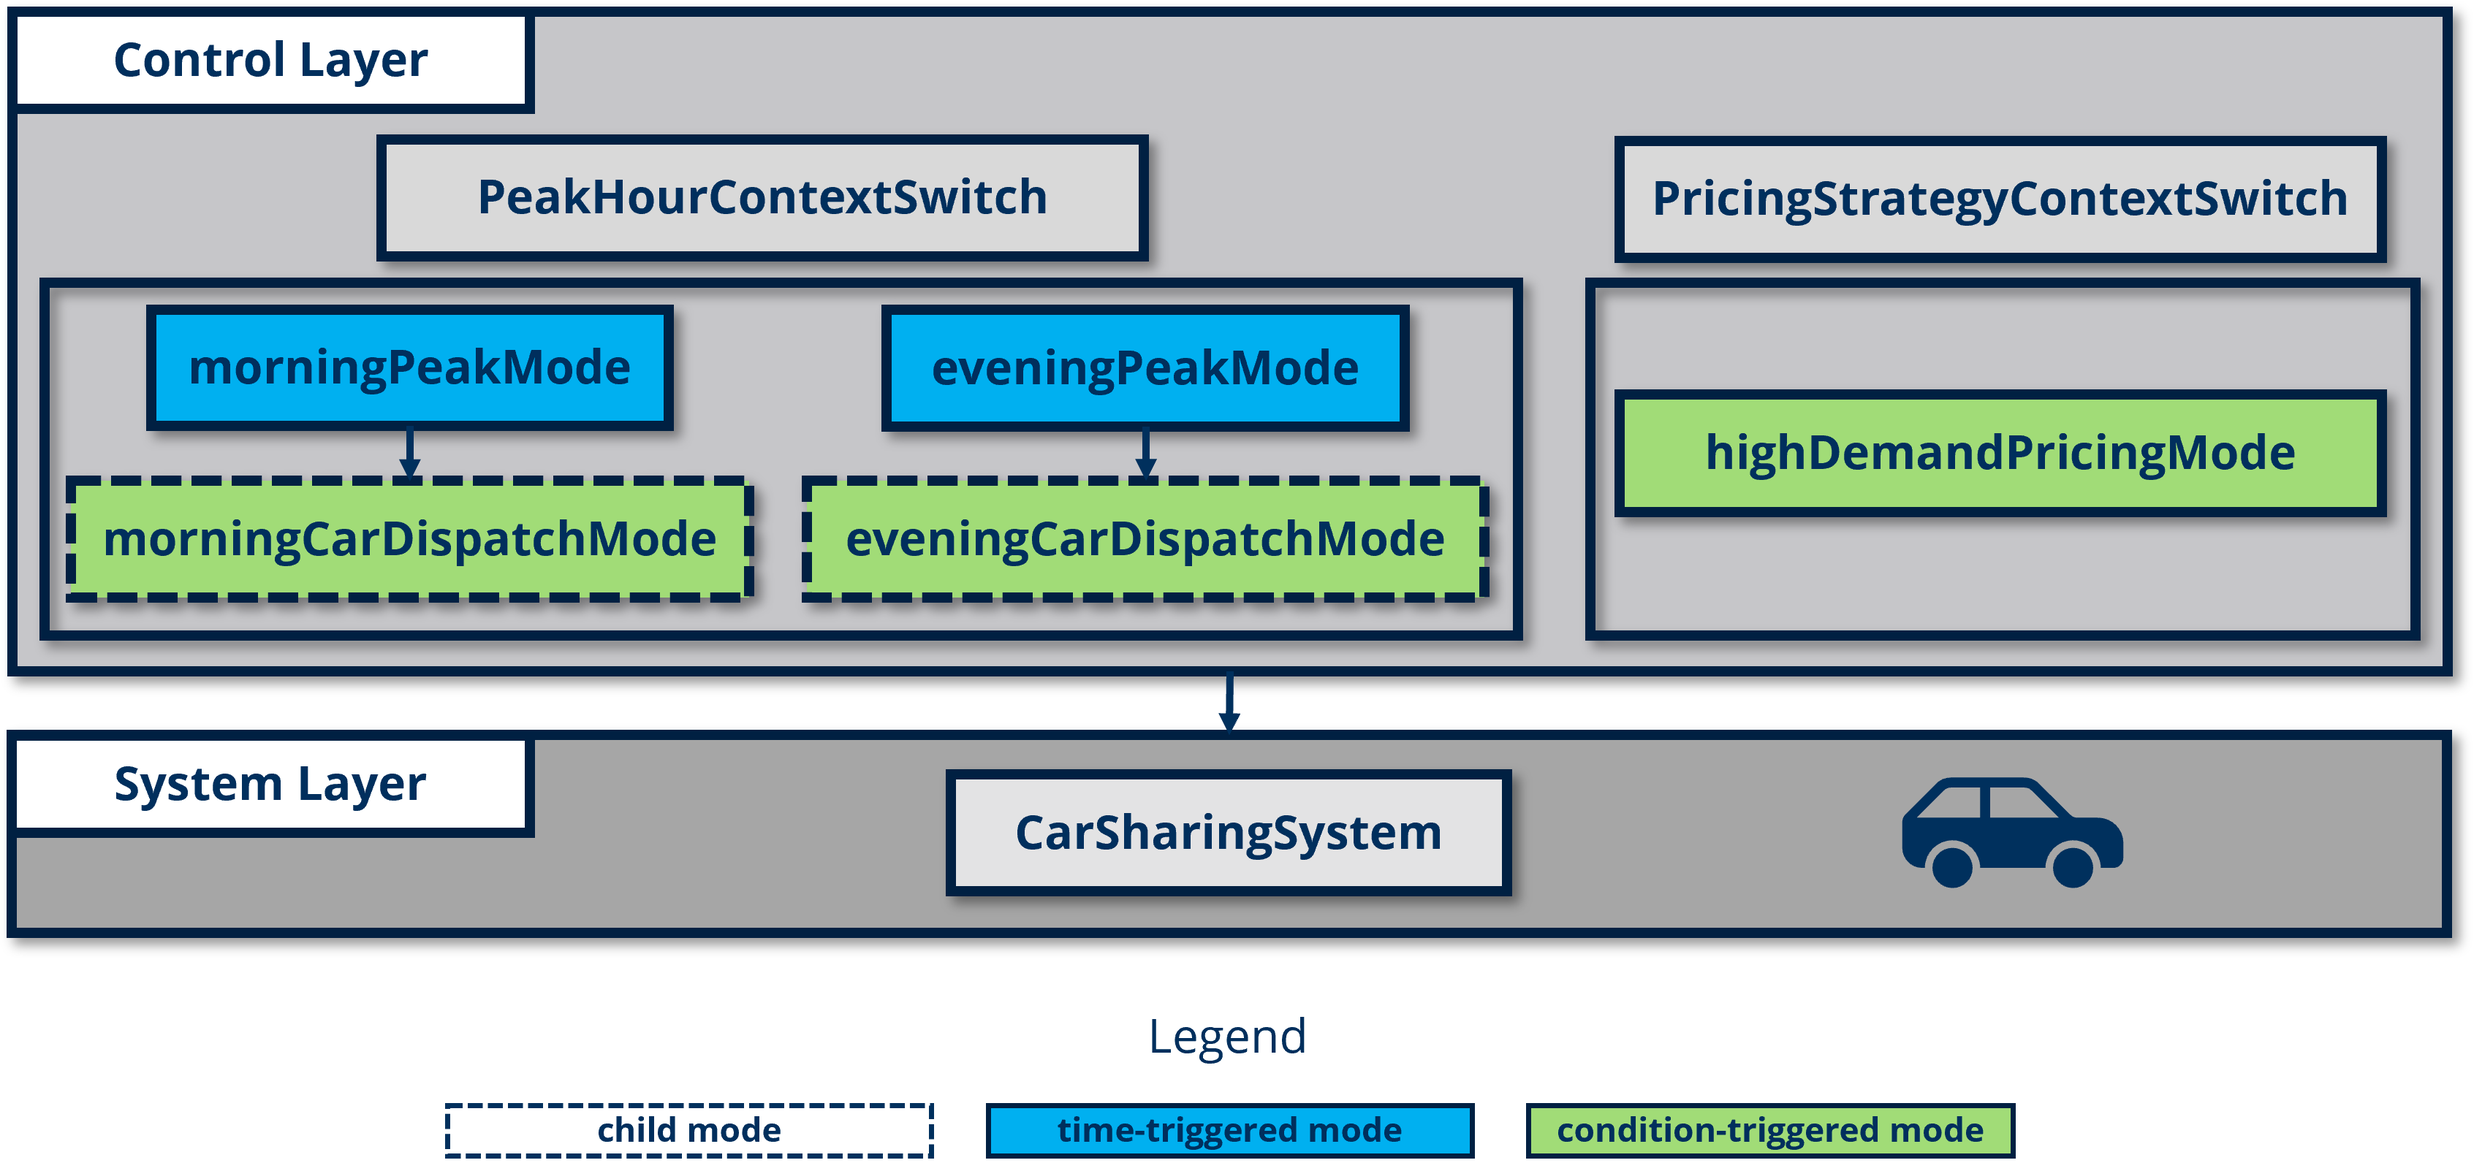
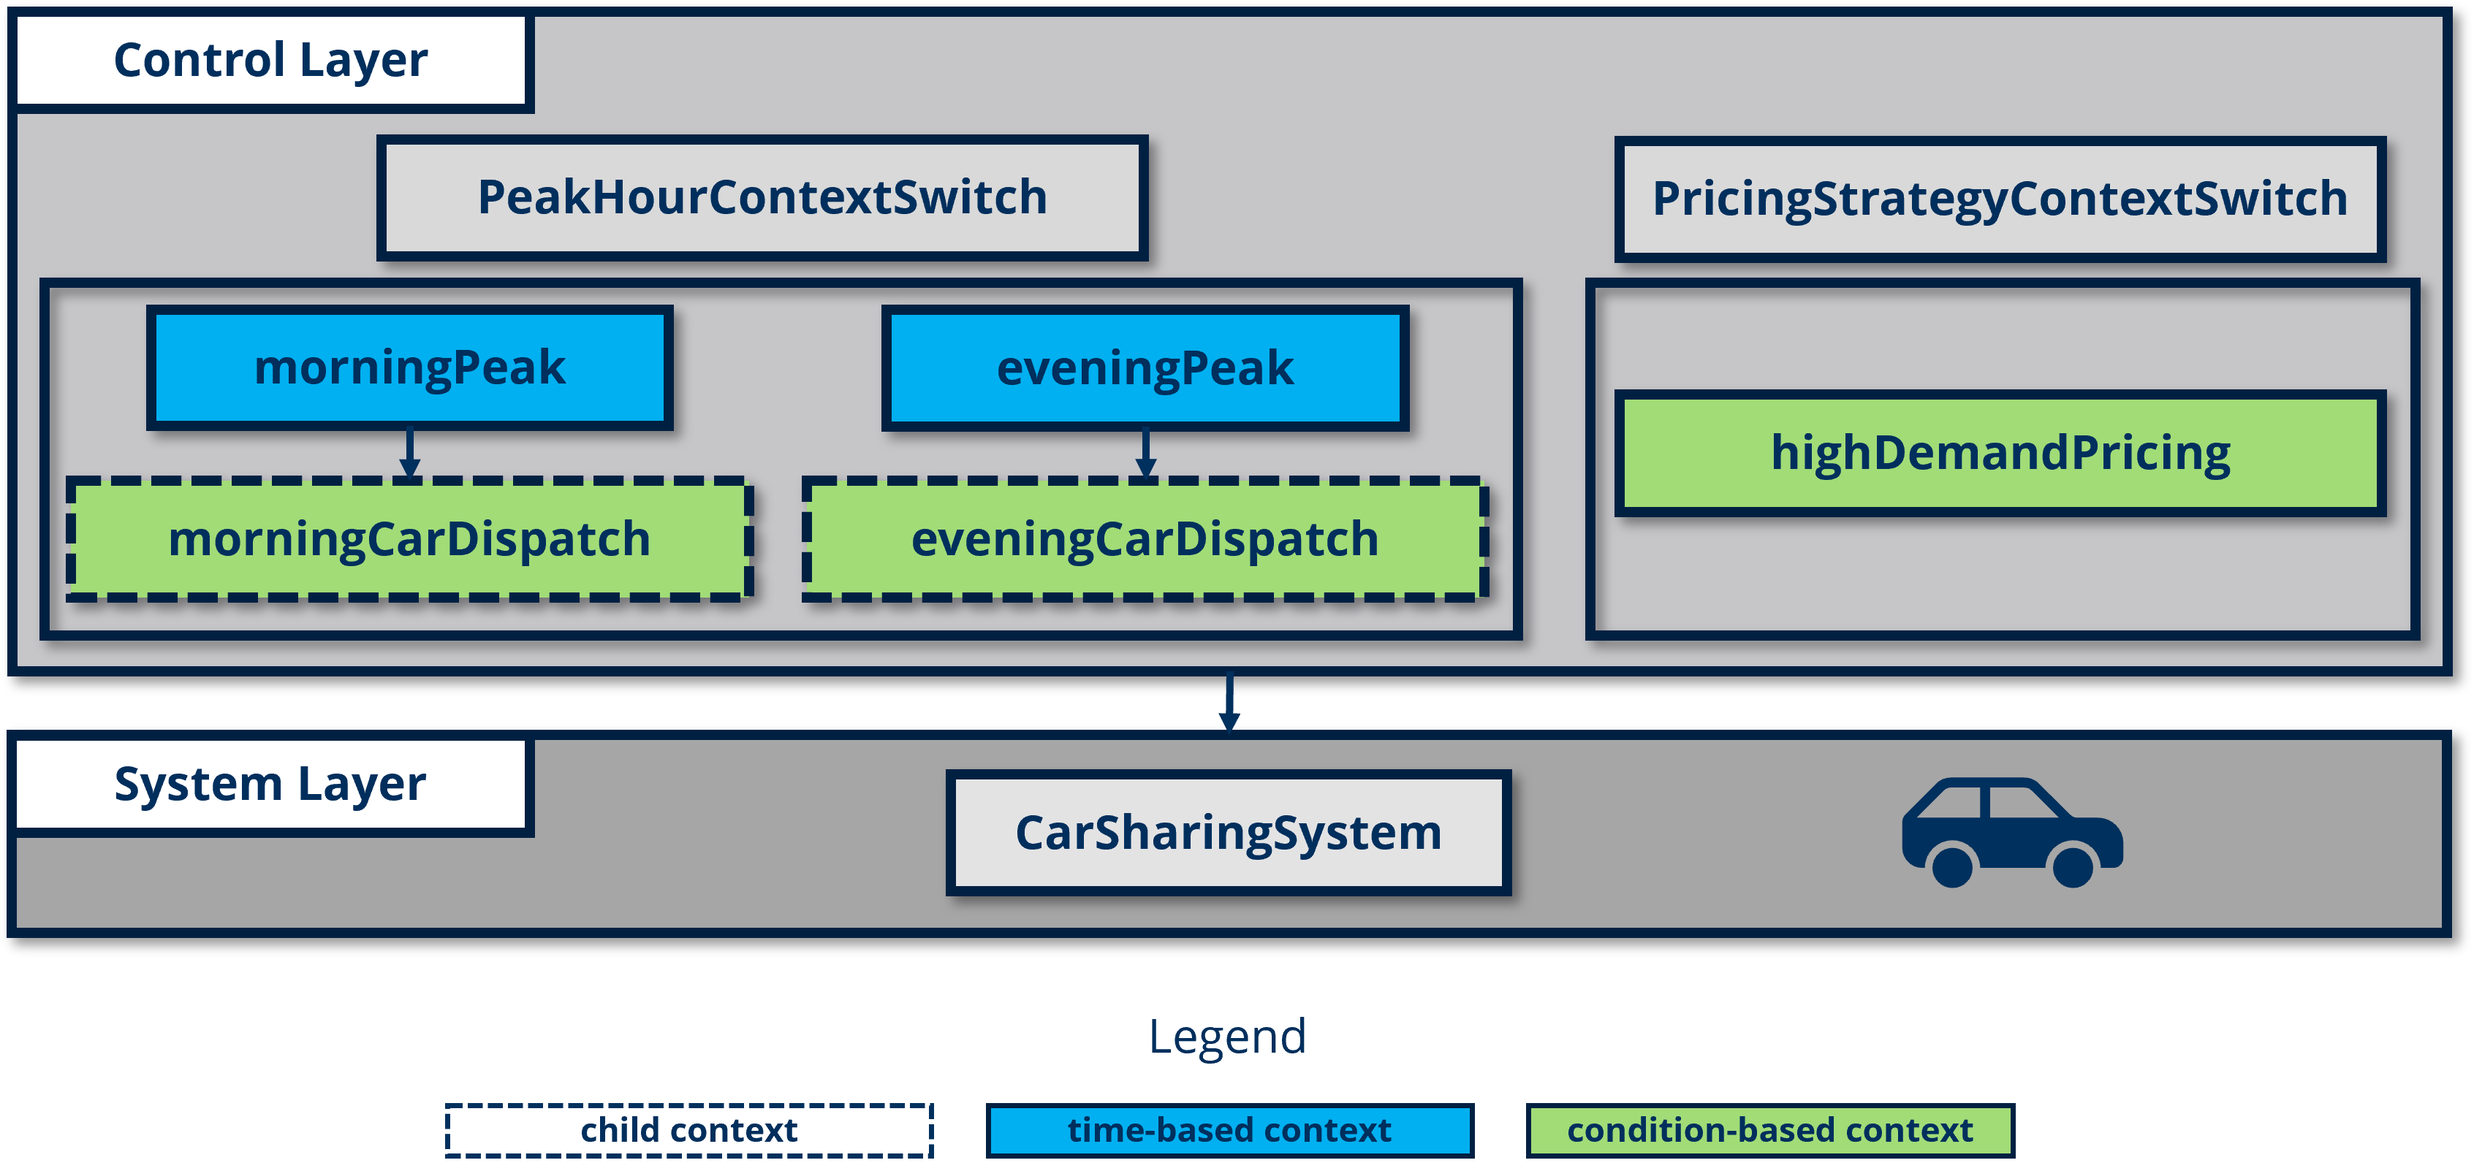
docs update

diff --git a/docs/docs/CaseStudies/ElectricGrid.md b/docs/docs/CaseStudies/ElectricGrid.md
@@ -3,22 +3,25 @@ layout: default
 title: ElectricGrid
 parent: Case Studies
 nav_order: 2
-
 ---
 
 # ElectricGrid
 
-The [TransiEnt]([GitHub - TransiEnt-official/transient-lib: official and current version of TransiEnt library](https://github.com/TransiEnt-official/transient-lib)) library is an award-winning, open-source Modelica library designed for modeling complex energy systems. This case study demonstrates how **CFPNlib** can be easily integrated to add control logic on these sophisticated models. The model consists of 1992 equations and variables, reflecting its complexity and realism in simulating the operation of a real-world grid.
+The [TransiEnt]([GitHub - TransiEnt-official/transient-lib: official and current version of TransiEnt library](https://github.com/TransiEnt-official/transient-lib)) library is an award-winning, open-source Modelica library designed for modeling complex energy systems. 
 
-The model represent a simulation of an electrical grid system, incorporating renewable energy sources such as **solar panels** (bottom left), **wind plants** (bottom left), and a **Combined Heat and Power (CHP) plant** (left) into an **electric grid** (bottom right) that serves **user demands** (top right). The system is designed to balance power production from various sources with the dynamic energy demand from consumers. 
+This case study specifically showcases how to seamlessly integrate control logic into an existing energy system model. This model consists of 1992 variables and equations, reflecting its complexity and realism in simulating the operation of a real-world grid.
+
+This model represent a simulation of an electrical grid system, incorporating renewable energy sources such as **solar panels** (bottom left), **wind plants** (bottom left), and a **Combined Heat and Power (CHP) plant** (left) into an **electric grid** (bottom right) that serves **user demands** (top right). The system is designed to balance power production from various sources with the dynamic energy demand from consumers. 
 
 <img src="../../assets/ElectricGridCaseStudy.png"/>
 
-This case study specifically showcases how to seamlessly integrate control logic into an existing energy system model. As an example, we demonstrate the implementation of a **renewable energy priority mode**. This mode prioritizes renewable energy sources by shutting down the CHP plant and relying solely on solar and wind power when certain conditions are met. These conditions ensure that the grid operates efficiently and sustainably, leveraging renewable resources when available.
-
 ## Control Logic
 
-In this case study, a **renewable energy priority mode** was added to the original electrical grid model. This control logic ensures that the Combined Heat and Power (CHP) plant only operates when renewable energy sources (solar and wind) are insufficient to meet the energy demand. The logic is implemented as follows:
+In this case study, a `renewablePriority` context and a `windOnly` context were added to the original electrical grid model. Both contexts are condition-based and are weakly included.
+
+When the `renewablePriority` context is active, the Combined Heat and Power (CHP) plant stops operating. When the `windOnly` context is active, only wind energy is used. Since the `windOnly` context is weakly included within the `renewablePriority` context, the CHP plant also stops operating when the `windOnly` context is active.
+
+The logic is implemented as follows:
 
 ```modelica
 model ElectricGridCaseStudy
@@ -34,52 +37,34 @@ model ElectricGridCaseStudy
   Real currentPVPower;
   Real currentWindPower;
   Real input_value;
+  Real PV_output;
 
-  // Context-based event for Renewable Priority Mode
-  ContextWithConditionEvent renewablePriorityMode(
-    contextName = "RenewablePriorityMode",
-    startTokens = 0,
-    activationCondition = (currentDemand < 1e6 and currentPVPower > 500 and currentWindPower > 5e5));
+  // Context-based event for Renewable Priority Operation
+  ContextWithConditionEvent renewablePriority(
+    weakInclusionContext = "windOnly",
+    activationCondition = (currentDemand < 1e6 and currentPVPower > 500 and currentWindPower > 5e5) or windOnly.isActive);
+
+  // Context-based event for Wind Only Operation
+  ContextWithConditionEvent windOnly(
+    activationCondition = (currentDemand < 5e5));
     
 equation
 	(original code)
 	
-	// Equations to assign real values based on the current power consumption and production
+  // Equations to assign real values based on the current power consumption and production
   currentDemand = electricDemand.epp.P;
   currentPVPower = abs(pVPlant.epp.P);
   currentWindPower = abs(windProduction.epp.P);
 
-  // Conditional assignment based on the status of renewablePriorityMode
-  when renewablePriorityMode.isActive then
-    input_value = -min(electricDemandTable.y1 + 0.5e6, 1e6);
-  elsewhen not renewablePriorityMode.isActive then
-    input_value = 0;
-  end when;
+  // Conditional assignment based on the status of renewablePriority
+  CHP_input = if renewablePriority.isActive then 0 else -min(electricDemandTable.y1 + 0.5e6, 1e6);
+
+  // Conditional assignment based on the status of windOnly
+  PV_output = if windOnly.isActive then 0 else currentPVPower;
   
 end ElectricGridCaseStudy;
 ```
 
-This logic enables dynamic control of the CHP plant based on real-time conditions, improving the efficiency and sustainability of the grid by prioritizing renewable energy sources.
+As the results indicate, activating or deactivating the `windOnly` context also activates or deactivates the `renewablePriority` context.
 
-## Results
-
-### Original Operation of the CHP Plant
-
-Before integrating the control logic, the CHP plant operated continuously to meet the energy demand. This often led to unnecessary use of the CHP plant when renewable energy sources were available. Below is the diagram showing the original operation:
-
-<img src="../../assets/ElectricGrid_StandAlone_result.png"/>
-
-### Operation After Adding Control Logic
-Once the renewable energy priority mode is activated, the CHP plant is switched off when renewable energy production is sufficient to meet the demand. This is triggered by the conditions set in the control logic, such as low demand and high solar and wind energy production. Below is the diagram illustrating the operation with the new control logic in place:
-
-<img src="../../assets/ElectricGridCaseStudy_result.png"/>
-
-The results show that the CHP plant is only used when necessary, optimizing the grid's reliance on renewable energy and reducing the operational cost and environmental impact of fossil fuel-based energy generation.
-
-## Summary
-
-This case study demonstrates how to integrate a simple yet effective control logic into an existing energy system model using the **CFPNlib** library. By adding the renewable energy priority mode, we are able to ensure that the grid prioritizes renewable energy sources like solar and wind, and only uses the CHP plant when required by the energy demand.
-
-The integration of this control logic is straightforward, requiring minimal changes to the existing model. By using the intuitive **CFPNlib** components, we can easily define the conditions for switching the CHP plant on or off based on real-time energy generation and demand, without the need for complex modifications to the original system structure.
-
-The model with integrated control logic is more dynamic and adaptable to changing conditions in the energy environment, making it a valuable tool for optimizing real-world electrical grids. This approach highlights the flexibility and simplicity of using **CFPNlib** to add intelligent control to complex models, enabling more efficient and sustainable energy system management.
+<img src="../../assets/ElectricGridCaseStudyWeakInclusion.png"/>

diff --git a/docs/docs/CaseStudies/CarSharingSystem.md b/docs/docs/CaseStudies/CarSharingSystem.md
@@ -3,12 +3,11 @@ layout: default
 title: CarSharingSystem
 parent: Case Studies
 nav_order: 1
-
 ---
 
 # CarSharingSystem
 
-This case study demonstrates how **CFPNlib** can be used to implement modular and maintainable control logics within a car-sharing system. The model allows for dynamic control of car dispatch and pricing based on contextual factors, such as peak hours and user demand. The **CFPNlib** library is leveraged to introduce time-based and condition-based context events, improving flexibility without altering the core system model.
+This case study demonstrates how the **ContextVariabilityManager** can be used to implement modular and maintainable control logic within a car-sharing system. The model enables dynamic control of car dispatch and pricing based on contextual factors such as peak hours and user demand. The **ContextVariabilityManager** library is leveraged to introduce time-based and condition-based context events, enhancing flexibility without modifying the core system model.
 
 The structure of the case study is organized as follows:
 
@@ -25,14 +24,14 @@ CarSharingSystemCaseStudy
 - **PricingStrategyContextSwitch**: A control module to dynamically adjust pricing based on user demand.
 - **CarSharingSystemCaseStudy**: The integration model that connects the control modules with the base car-sharing system.
 
-As illustrated in the diagram below, this case study includes five modes: three condition-triggered modes and two time-triggered modes. Two of the condition-triggered modes are child modes of the time-triggered modes.
+As illustrated in the diagram below, this case study includes five contexts: three condition-based contexts and two time-based contexts. Two of the condition-based contexts are children contexts of the time-based contexts.
 
 <img src="../../assets/CarSharingSystem.png" style="zoom:25%;" />
 
 ## Modules
 ### Module 1: CarSharingSystem
 
-The **CarSharingSystem** model is based on an open-source car-sharing system repository, available [here](https://git-st.inf.tu-dresden.de/wang/pn4ecss). To integrate control logic, two input and output connectors are added for interfacing with the control layers, while other components remain unchanged.
+The **CarSharingSystem** model with 2824 variables and equations is based on an open-source car-sharing system repository, available [here](https://git-st.inf.tu-dresden.de/wang/pn4ecss). To integrate control logic, two input and output connectors are added for interfacing with the control layers, while other components remain unchanged.
 ```modelica
 // Added connectors
   output Real currentNumUsers(start = numUsers) "Current number of users in the system";
@@ -50,29 +49,26 @@ The **PeakHoursContextSwitch** module introduces both time-based and condition-b
 Here are the four context definitions:
 
 ```modelica
-ContextWithTimeEvent morningPeakMode(
-    startTokens = 0,
+ContextWithTimeEvent morningPeak(
     activationTimes = {morningPeakStartTime},
-    deactivationTimes = {morningPeakEndTime}
-  ) "Context for Morning Peak Mode";
+    deactivationTimes = {morningPeakEndTime})
+    "Context for Morning Peak";
 
-  ContextWithTimeEvent eveningPeakMode(
-    startTokens = 0,
+  ContextWithTimeEvent eveningPeak(
     activationTimes = {eveningPeakStartTime},
-    deactivationTimes = {eveningPeakEndTime}
-  ) "Context for Evening Peak Mode";
-  
-  ContextWithConditionEvent morningCarDispatchMode(
+    deactivationTimes = {eveningPeakEndTime})
+    "Context for Evening Peak";
+
+  ContextWithConditionEvent morningCarDispatch(
+    parentContext = "morningPeak",
+    activationCondition = (currentNumCars < 2) and morningPeak.isActive)
+    "Condition-based context to increase car availability during Morning Peak";
+
+  ContextWithConditionEvent eveningCarDispatch(
     startTokens = 0,
-    parentContext = "morningPeakMode",
-    activationCondition = (currentNumCars < 2)
-  ) "Condition-based context to increase car availability during Morning Peak Mode"; 
-  
-  ContextWithConditionEvent eveningCarDispatchMode(
-    startTokens = 0,
-    parentContext = "eveningPeakMode",
-    activationCondition = (currentNumCars < 1)
-  ) "Condition-based context to increase car availability Evening Peak Mode";
+    parentContext = "eveningPeak",
+    activationCondition = (currentNumCars < 1) and eveningPeak.isActive)
+    "Condition-based context to increase car availability during Evening Peak";
 ```
 
 In this setup, during peak hours, if `currentNumCars` falls below a certain level, cars are dispatched to meet demand. The remaining implementation is shown below:
@@ -90,12 +86,12 @@ model PeakHoursContextSwitch
   ...(shown above)  
   
   // Output variable to dynamically adjust based on active context
-  output Real carDispatch; 
+  output Real carDispatch;
 
 equation
-  // Adjust the car dispatch based on the active peak mode context
-  carDispatch = if morningCarDispatchMode.isActive then 2
-                  elseif eveningCarDispatchMode.isActive then 1
+  // Adjust the car dispatch based on the active peak context
+  carDispatch = if morningCarDispatch.isActive then 2
+                  elseif eveningCarDispatch.isActive then 1
                   else 0;
 
 end PeakHoursContextSwitch;
@@ -109,9 +105,7 @@ Example of the high-demand pricing context:
 
 ```modelica
 // Pricing Contexts
-  ContextWithConditionEvent highDemandPricingMode(
-    contextName = "HighDemandPricing",
-    startTokens = 0,
+  ContextWithConditionEvent highDemandPricing(
     activationCondition = currentNumUsers > highDemandThreshold
   ) "Context for High Demand Pricing";
 ```
@@ -141,11 +135,10 @@ model PricingStrategyContextSwitch
 
 equation
   // Adjust the price based on the active pricing context
-  currentPrice = if highDemandPricingMode.isActive then highDemandPrice 
+  currentPrice = if highDemandPricing.isActive then highDemandPrice 
                  else normalDemandPrice;
 
 end PricingStrategyContextSwitch;
-
 ```
 
 ### Module 4: CarSharingSystemCaseStudy
@@ -179,11 +172,4 @@ equation
   carSharingSystem.currentPrice = pricingStrategyContextSwitch.currentPrice;
 
 end CarSharingSystemCaseStudy;
-
 ```
-
-## Summary
-
-By using **CFPNlib**, developers can implement flexible, modular control logic without modifying the original model, ensuring a clear separation of concerns and simplifying maintenance. This approach also provides a comprehensive overview of how the model is controlled, benefiting both developers and users.
-
-The plotted results offer a clear visualization of which contexts are activated or deactivated, making it easy to compare different outputs and states. This streamlined analysis is especially valuable in large systems with thousands of variables—such as a car-sharing system with 2824 variables. The clarity of the results makes it much easier to interpret and optimize the system.

diff --git a/docs/docs/Overview/WhyThis.md b/docs/docs/Overview/WhyThis.md
@@ -24,18 +24,20 @@ In ContextVariabilityManager, the base component (illustrated below) encapsulate
 Below is a straightforward example of defining mutually exclusive features, **"brewing"** and **"grinding"**, with "brewing" given priority. This setup ensures that if "brewing" is active, "grinding" cannot be activated, and if "grinding" is already active, it will be deactivated if "brewing" becomes active.
 
 ```modelica
-  FeatureWithConditionEvent grinding(
-    activationCondition = startGrindingButton and (not brewing.isActive)  
-  );
+FeatureWithConditionEvent grinding(
+  activationCondition = startGrindingButton and (not brewing.isActive)  
+);
 ```
 
 Below is an example of hierarchical contexts, "lowLoad" is defined as a child context of "normalMode", meaning that "lowLoad" can only activate if "normalMode" is already active. This parent-child relationship simplifies managing multiple layers of conditions.
 
 ```modelica
-  ContextWithConditionEvent lowLoad(
-    parentContext = "normalMode", 
-    activationCondition = (hydrogenLevel >= 20.0 and hydrogenLevel < 40.0) and 										normalMode.isActive
-  );
+ContextWithConditionEvent lowLoad(
+  parentContext = "normalMode", 
+  activationCondition = (hydrogenLevel >= 20.0 and 
+    hydrogenLevel < 40.0) and 
+    normalMode.isActive
+);
 ```
 
 ## Summary of Differences

diff --git a/docs/docs/Overview/ContextRelationships.md b/docs/docs/Overview/ContextRelationships.md
@@ -15,12 +15,12 @@ In this relationship, a child context can only be activated if its parent contex
 
 ```modelica
 ContextA (
-	activationCondition = ...
+  activationCondition = ...
 )
 
 ContextB (
-	parentContext = ContextA
-	activationCondition = ... and ContextA.isActive
+  parentContext = ContextA
+  activationCondition = ... and ContextA.isActive
 )
 ```
 
